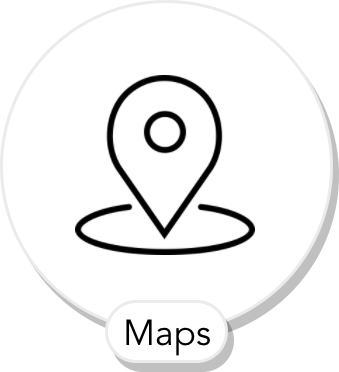
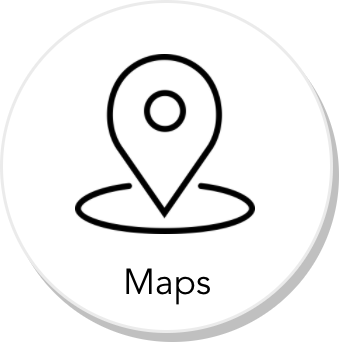
ac

diff --git a/res/css/circularMenu.css b/res/css/circularMenu.css
@@ -5,7 +5,7 @@
 }
 
 .menu-item, .menu-open-button {
-  background: #e4ae38;
+  background: white;
   border-radius: 100%;
   width: 100px;
   height: 100px;
@@ -16,9 +16,9 @@
   text-align: center;
   line-height: 80px;
   -webkit-transform: translate3d(0, 0, 0);
-          transform: translate3d(0, 0, 0);
-  transition: -webkit-transform ease-out 200ms;
-  transition: transform ease-out 200ms;
+            transform: translate3d(0, 0, 0);
+    transition: -webkit-transform ease-out 200ms;
+    transition: transform ease-out 200ms;
   transition: transform ease-out 200ms, -webkit-transform ease-out 200ms;
 }
 
@@ -29,7 +29,7 @@
 .hamburger {
   width: 25px;
   height: 3px;
-  background: white;
+  background: #e4ae38;
   display: block;
   position: absolute;
   top: 50%;
@@ -121,21 +121,21 @@
 }
 
 .menu-open:checked + .menu-open-button i{
-  transform:scale(.3);
+  transition-timing-function: linear;
+  transition-duration: 200ms;
+  transform:scale(.4) translate(10px,10px);
   display: block;
   overflow: visible;
   width: 100px;
   height: 100px;
 }
 .menu-open:checked + .menu-open-button {
+  box-shadow: 0px 0px 10px rgba(0,0,0,.5);
   transition-timing-function: linear;
   transition-duration: 200ms;
           transform: scale(3) translate3d(0, 0, 0);
+          border:none;
           background:white;
-}
-.menu-open:checked + .menu-open-button .hamburger{
-          background: gray;
-          right:18px;
 }
 
 .menu-open:checked ~ .menu-item {
@@ -173,11 +173,22 @@
           transform: translate3d(-0.25084px, -104.9997px, 0);
 }
 
+#brand{
+  background-image: url(../images/MOCO_Logo_White_Full.png);
+  height: 200px;
+  width: 300px;
+  background-size: contain;
+  background-repeat: no-repeat;
+  bottom: 20px;
+  position: fixed;
+  right: 10px;
+}
+
 #mapsB{
   background-image: url(../images/maps.png)
 }
 #contactB{
-  background-image: url(../images/maps.png)
+  background-image: url(../images/contact.png)
 }
 #programB{
   background-image: url(../images/program.png)
@@ -198,25 +209,21 @@
 }
 
 .menu-open-button .hamburger{
-  bottom: 30px;
-  right: 10px;
+  bottom: 35px;
+  right: 20px;
   left: auto;
   top: auto;
-
+  background: gray;
 }
 
   
-body.menuVisible{
-   transition: .1s;
-   background-color:#e4ae38;
-}
-
-body{
-   transition: 1s;
-}
 nav.menu{
    left: 0;
    top: -50px;
 }
 
+body.menuVisible
+{
+  background-position:50%;
+}
 

diff --git a/res/css/anappfor.me.less b/res/css/anappfor.me.less
@@ -501,10 +501,12 @@ a,header,
 
 
 body{
+  transition: .2s;
   background-image:url(../images/bg.png);
+  background-color:#e4ae38; 
   background-size: contain;
   background-repeat: no-repeat;
-  background-position: 50%;
+  background-position: 10px;
   margin: 0px;
   width: 100vw;
   height: 100vh;
